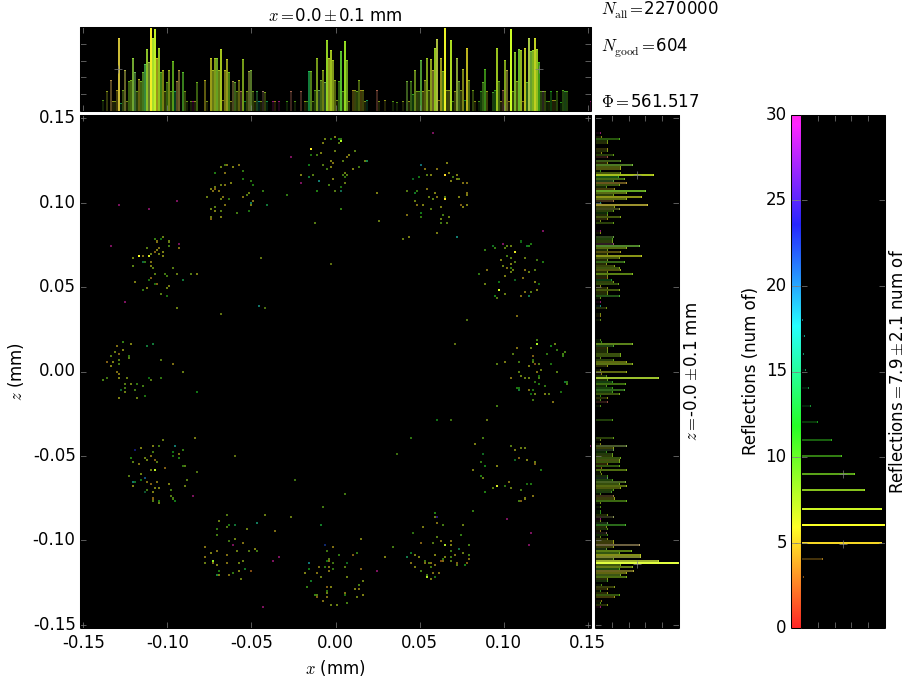
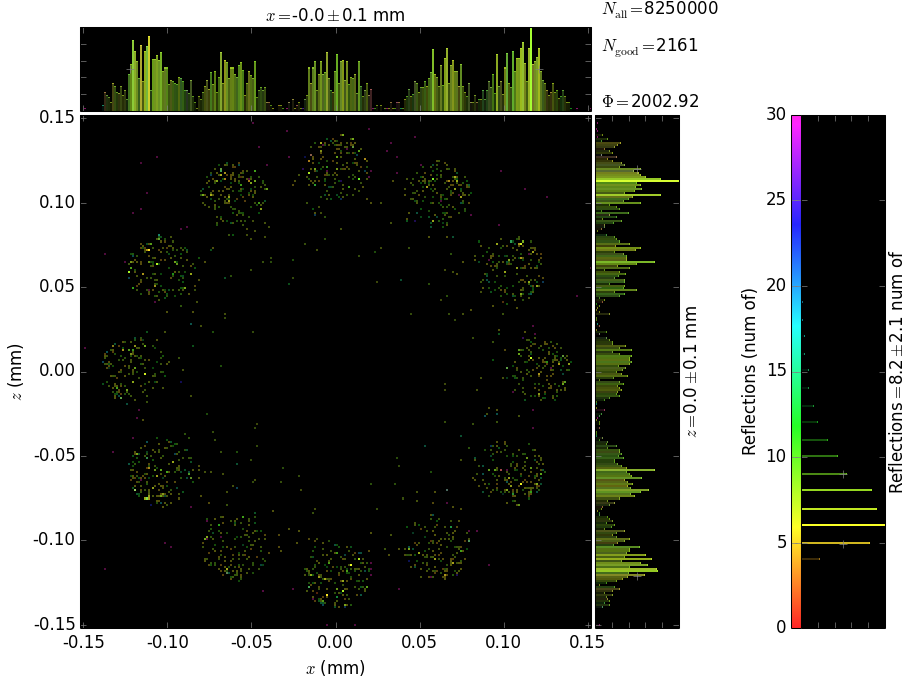
Shape of the slit is visible, but dimensions are 10x off

diff --git a/simplfiedPolyCapillary.py b/simplfiedPolyCapillary.py
@@ -174,9 +174,9 @@ def build_beamline(nrays=1e4):
                                           
     # Insert slit                                          
     slitDx = 0.2
-    slitDz = 0.02                                     
+    slitDz = 0.1                                     
     beamLine.slit = ra.RectangularAperture(
-        beamLine, 'squareSlit', 0, f + 2.2*rSample, ('left', 'right', 'bottom', 'top'),
+        beamLine, 'squareSlit', 0, (f + 2.2*rSample), ('left', 'right', 'bottom', 'top'),
         [-slitDx, slitDx, -slitDz, slitDz])
         
     # Insert screen after slit
@@ -263,15 +263,16 @@ def main():
     """
     BEHIND THE SLIT
     """
+    limit_r = 3
+    xLimits = [- limit_r, limit_r]
+    zLimits = [-limit_r, limit_r]
     plot = xrtp.XYCPlot('slitScreen', (1,),
         xaxis=xrtp.XYCAxis(r"$x$", 'mm', data=raycing.get_x, bins=256, ppb=2, limits=xLimits),
         yaxis=xrtp.XYCAxis(r"$z$", 'mm', data=raycing.get_z, bins=256, ppb=2, limits=zLimits),
         caxis='category', 
 #        caxis=xrtp.XYCAxis("Reflections", 'num of',data=raycing.get_reflection_number, bins=256, ppb=2, limits=[0, nRefl]),
         beamState='slitScreen', title='After the slit', aspect='auto',
-        persistentName=persistentName)
-    # setting persistentName saves data into a python pickle, and might be
-    # unhealthy if pickle isn't cleared/deleted when plotted data changes
+        persistentName=None)
     plot.baseName = 'slit_0A'
     plot.saveName = 'png/' + plot.baseName + '.png'    
     plots.append(plot)
